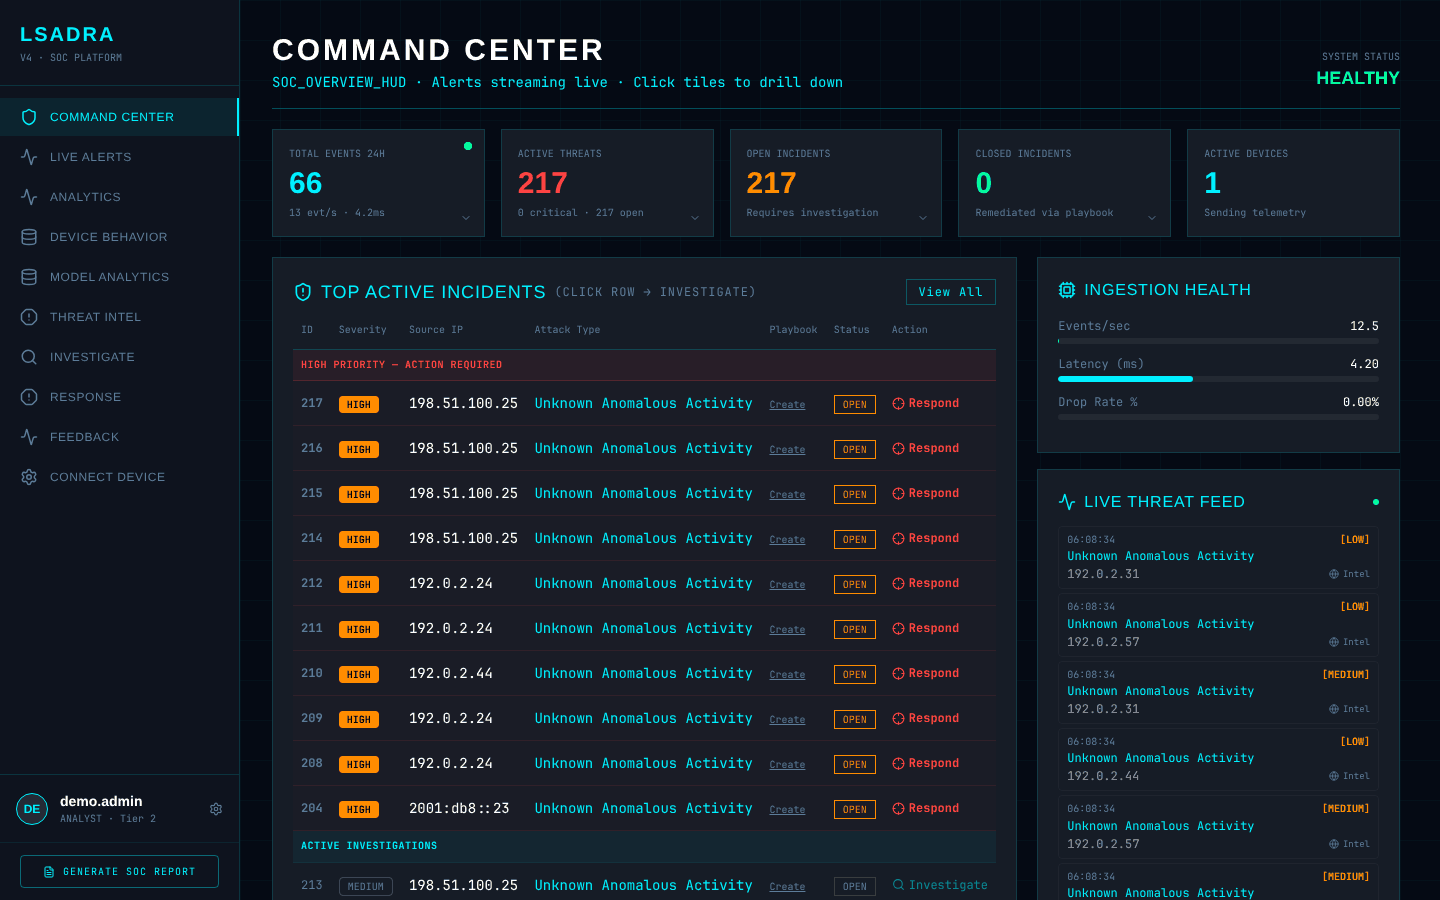
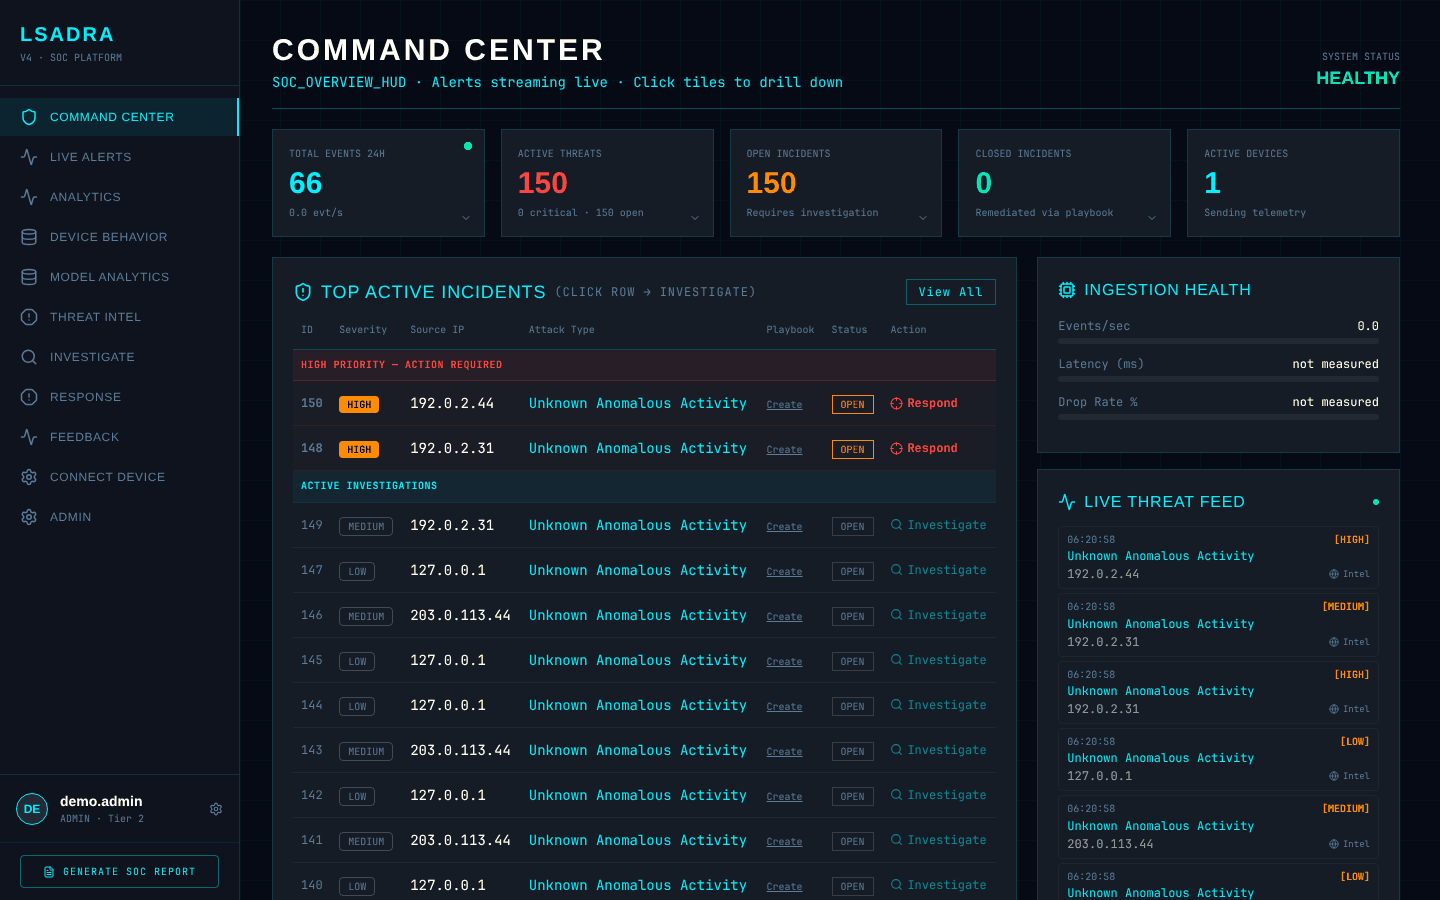
docs: README covers the admin CLI, retake screenshots on fixed dashboard
Retake the tour screenshots on main plus the KPI, first-admin and
no-mock-data fixes, add the Admin page, and document creating the first
admin with lsadra.admin_cli. Drop placeholder-table rows those fixes
resolve. Leave CONTRIBUTING.md to the contributor quick start PR.

Claude-Session: https://claude.ai/code/session_013hvzU9MtU99dom3KQZ1H2Z

diff --git a/README.md b/README.md
@@ -122,9 +122,28 @@ npm run dev
 
 Open **http://localhost:5173** and sign in as `demo.admin` / `demo-only-not-a-secret` (the sign-in button is labelled **Initialize**). You can also create your own account with **Register**.
 
+The dashboard only ever shows data from the API. Front-end developers who want canned data without a backend can run `VITE_DEMO_MOCKS=true npm run dev` and sign in as `testuser`; that switch exists only in the dev server and is compiled out of production builds.
+
+### 5. Create an admin
+
+Accounts created with **Register**, including `demo.admin`, get the `ANALYST` role, which sees only its own data and cannot open the **Admin** page. Admins are made from a shell on the server, with the same settings as the API (here, dev mode):
+
+```bash
+# Linux / macOS: promote the demo account, or create a new admin (prompts for a password of 12+ characters)
+LSADRA_DEV_MODE=true venv/bin/python -m lsadra.admin_cli promote --username demo.admin
+LSADRA_DEV_MODE=true venv/bin/python -m lsadra.admin_cli create-admin --username alice
+```
+
+```powershell
+# Windows PowerShell (in a shell where $env:LSADRA_DEV_MODE = "true" is already set)
+venv\Scripts\python -m lsadra.admin_cli promote --username demo.admin
+```
+
+Sign out and back in for the new role to apply. After that, admins can manage users and roles from the **Admin** page. For scripts and containers, `create-admin --password-stdin` reads the password from standard input instead of prompting.
+
 > The dashboard calls the API at `http://localhost:8000`, which is set in [`frontend/src/services/api.ts`](frontend/src/services/api.ts). If you run the API elsewhere, change it there and add the dashboard's origin to `LSADRA_CORS_ORIGINS`.
 
-### 5. Check everything works
+### 6. Check everything works
 
 ```bash
 venv/bin/python tests/test_v4_smoke.py        # expected: 27/27 passed
@@ -132,7 +151,7 @@ venv/bin/python tests/test_v4_smoke.py        # expected: 27/27 passed
 
 ## Dashboard tour
 
-The screenshots below were taken from the quick start above: one demo device, 217 replayed events, 1440×900 window. Accounts created with **Register** get the `ANALYST` role; `ADMIN` sees every user's data, other roles see only their own.
+The screenshots below were taken by following the quick start above, signed in as `demo.admin` after promoting it to admin: one demo device, 217 replayed events, 1440×900 window. `ADMIN` sees every user's data; `ANALYST` and `VIEWER` see only their own.
 
 ### Sign in
 
@@ -144,7 +163,7 @@ Sign-in goes only through `POST /api/auth/login`; there is no offline login, so 
 
 <img src="docs/screenshots/command-center.png" alt="Command Center" width="720"/>
 
-The home screen. The tiles at the top count events in the last 24 hours, active threats, open and closed incidents, and devices currently sending. **Top Active Incidents** lists open incidents by recency with their severity, source IP and attack type. The **Live Threat Feed** on the right is pushed over the `/ws/alerts` WebSocket as detection stores each anomaly. If the socket drops, the page reconnects with backoff and polls every 5 seconds in the meantime.
+The home screen. The tiles at the top count events in the last 24 hours, active threats, open and closed incidents, and devices currently sending. **Ingestion Health** shows the measured event rate over the last minute; latency and drop rate say "not measured" until the API measures them. **Top Active Incidents** lists open incidents by recency with their severity, source IP and attack type. The **Live Threat Feed** on the right is pushed over the `/ws/alerts` WebSocket as detection stores each anomaly. If the socket drops, the page reconnects with backoff and polls every 5 seconds in the meantime.
 
 ### Live Alerts
 
@@ -182,6 +201,12 @@ Generates a one-time registration token and the one-line Linux install command f
 
 Per-source ingestion health: which log sources are active, events per second and latency, and the ingestion nodes (devices) behind them.
 
+### Admin
+
+<img src="docs/screenshots/admin.png" alt="Admin user management" width="720"/>
+
+Admins only. List users, change their roles, and create accounts with a chosen role.
+
 ### Pages that still show placeholder data
 
 Some screens are designed but not yet wired to the API. They render, but parts of what they show are fixed sample content rather than your data. They are good first contributions:
@@ -192,15 +217,10 @@ Some screens are designed but not yet wired to the API. They render, but parts o
 | Investigate | The API has no entity endpoint yet (`GET /api/entity/{id}` returns 404), so every search shows a generic profile with a fixed risk score of 42 |
 | Threat Intel | The lookup box does not call the API yet, so it returns nothing; the server-side AbuseIPDB cache (`LSADRA_ABUSEIPDB_API_KEY`) is not shown here |
 | Response | Playbook steps, the console and the response metrics |
-| Feedback | The feedback history list starts with sample entries |
 | Live Alerts header and footer | The ingestion rate, uptime and status line |
-| Command Center "Ingestion Health" | Events/sec and latency are fixed values from `GET /api/dashboard/health` |
 | Sources | The average latency tile |
-| Analytics | The event and anomaly timeline spreads the 24-hour totals evenly across the hours, and with no data yet the charts show generated sample series |
+| Analytics | The event and anomaly timeline spreads the 24-hour totals evenly across the hours |
 | Device Behavior | "Last seen" shows `NaNh ago` |
-| Admin | User management needs the `ADMIN` role, and registration only creates `ANALYST` accounts, so a fresh install has no admin yet |
-
-One more thing to know while testing: the dashboard serves built-in sample data to an account named exactly `testuser`, so pick any other username when you want to see your own data.
 
 ## Connect a real device
 
@@ -225,6 +245,7 @@ cp .env.example .env
 # Edit .env: set LSADRA_JWT_SECRET to a long random value, for example the output of
 #   python -c "import secrets; print(secrets.token_urlsafe(32))"
 docker compose -f docker-compose.yml up -d --build
+docker compose -f docker-compose.yml exec api python -m lsadra.admin_cli create-admin --username alice
 ```
 
 Name `docker-compose.yml` explicitly as above. A plain `docker compose up` also loads [`docker-compose.override.yml`](docker-compose.override.yml), the development override: it mounts the source tree, turns on hot reload and forces TLS off.
@@ -350,7 +371,7 @@ Background jobs (APScheduler) handle cross-source correlation, lateral-movement 
 ## Project structure
 
 ```
-lsadra/             Core platform: auth, ingestion, detection, storage, scheduler, legacy UI
+lsadra/             Core platform: auth, ingestion, detection, storage, scheduler, legacy UI, admin CLI (admin_cli.py)
 frontend/           React (Vite + TypeScript) SOC dashboard
 tests/              Test suite + end-to-end smoke tests
   security/         Security regression suite, one file per remediated finding

diff --git a/CONTRIBUTING.md b/CONTRIBUTING.md
@@ -67,38 +67,28 @@ LSADRA is an explainable SIEM platform: a **FastAPI** backend with a multi-layer
 
 ## Development Setup
 
-The README's [quick start](README.md#quick-start-local-about-10-minutes) is the full walkthrough, with Windows PowerShell variants and demo data. The short version for Linux/macOS (on Windows use `py -3.12` and `venv\Scripts\...`):
-
-### Backend (Python 3.12)
+### Backend (Python 3.12 required)
 
 ```bash
-python3.12 -m venv venv
-venv/bin/pip install -r requirements.txt
-# Dev mode allows a per-boot JWT secret; the CORS origin lets the dashboard call the API
-LSADRA_DEV_MODE=true LSADRA_CORS_ORIGINS=http://localhost:5173 \
-  venv/bin/python -m uvicorn server:app --host 127.0.0.1 --port 8000
-venv/bin/python scripts/seed_demo.py     # optional: load the synthetic demo corpus
+py -3.12 -m venv venv                          # Linux/macOS: python3.12 -m venv venv
+venv/Scripts/pip install -r requirements.txt   # Linux/macOS: venv/bin/pip
+venv/Scripts/python -m uvicorn server:app --host 0.0.0.0 --port 8000
 ```
 
 ### Frontend
 
 ```bash
 cd frontend
-npm ci
-npm run dev        # dashboard at http://localhost:5173 (demo login: demo.admin / demo-only-not-a-secret)
+npm install
+npm run dev        # dashboard at http://localhost:5173
 ```
 
 ### Running Tests
 
 ```bash
-venv/bin/python tests/test_v4_smoke.py                              # smoke gate (expected: 27/27)
-venv/bin/python -m pytest tests/security/ -q                        # security regression gate (0 failures)
-venv/bin/python -m pytest tests/ --ignore=tests/test_v4_smoke.py -q # full backend suite
-ruff check .                                                        # lint, as in CI
-cd frontend && npm run build                                        # when frontend/ changes
+venv/Scripts/python -m pytest tests/           # unit + integration tests
+venv/Scripts/python tests/test_v4_smoke.py     # end-to-end smoke test (expected: 27/27)
 ```
-
-Set `LSADRA_DEV_MODE=true` in the shell first if it has no `LSADRA_JWT_SECRET`, as CI does. The [Testing](README.md#testing) section of the README lists expected results and timings.
 
 Please make sure the smoke test passes before opening a PR.
 
